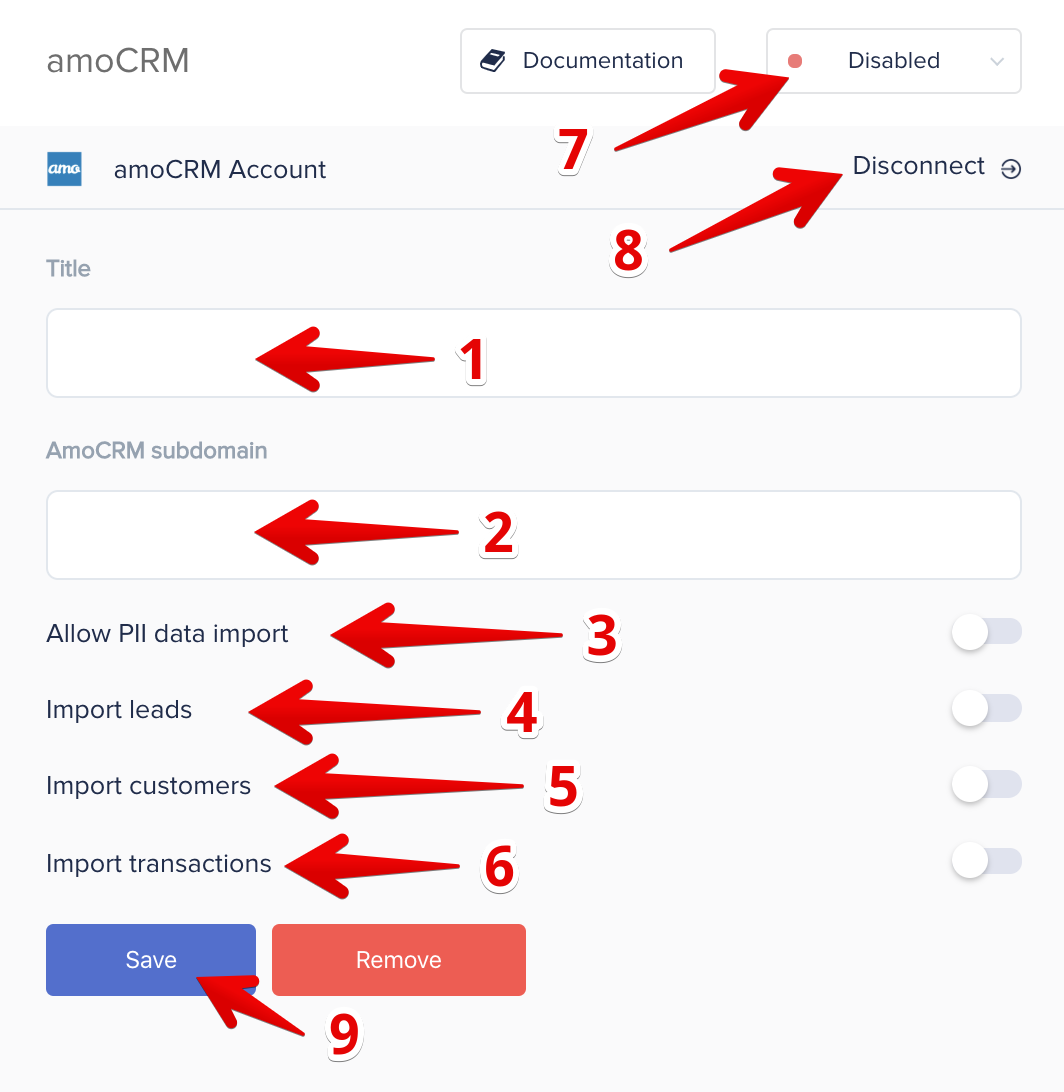
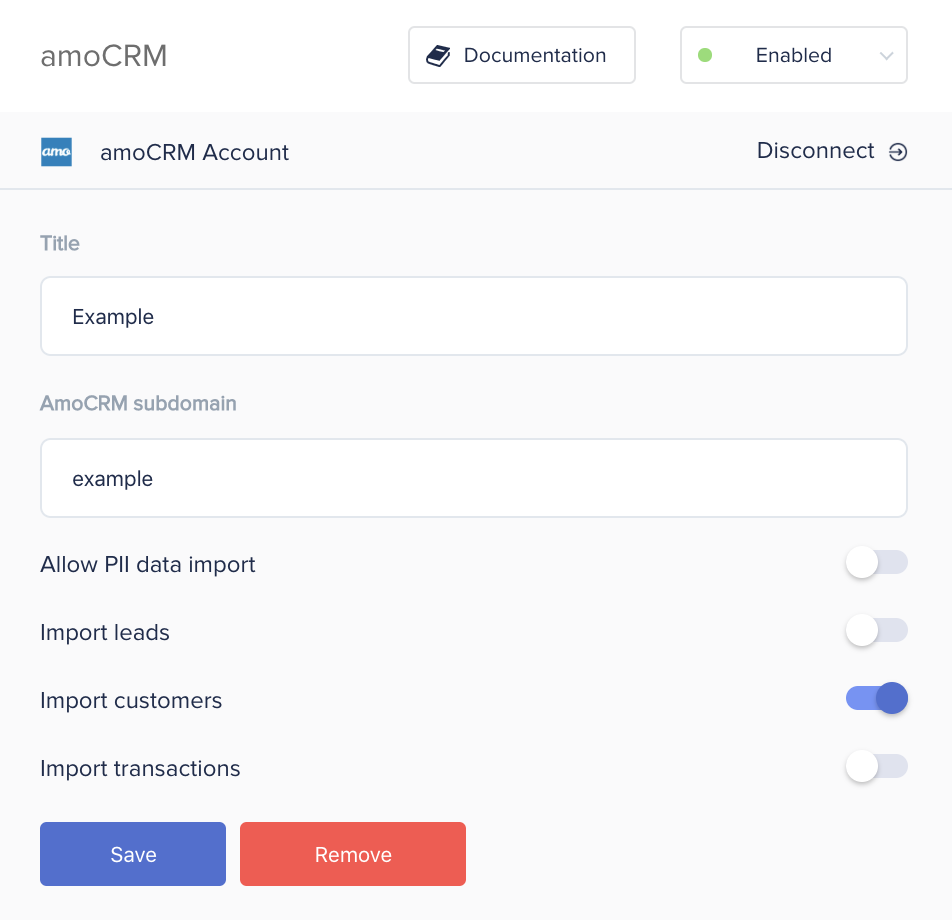
formating

diff --git a/_docs/datasources/amocrm.md b/_docs/datasources/amocrm.md
@@ -19,20 +19,28 @@ The process of connecting data sources is described in detail in the [overview](
 
 After authorization you need to set the data source parameters.
 
-(1) The name of the data source. It is displayed in the interface in the list of sources.
+### Options description
 
-(2) Should be filled with the name of your project as it appears in the amoCRM panel url, i.e. https://projectName.amocrm.ru/
+**Title**
+The name of the data source. It is displayed in the interface in the list of sources.
 
-(3) **Allow PII data import** - enable import of personal data.
+**AmoCRM subdomain**
+Should be filled with the name of your project as it appears in the amoCRM panel url, i.e. https://projectName.amocrm.ru/
 
-(4) **Import leads** - enable import of lead data.
+**Allow PII data import**
+Enable import of personal data.
 
-(5) **Import customers** - enable import of customer data.
+**Import leads**
+Enable import of lead data.
 
-(6) **Import transactions** - enable import of transaction data.
+**Import customers**
+Enable import of customer data.
 
-To save and enable the data source, click "Save" (9).
+**Import transactions**
+Enable import of transaction data.
 
-The "Disconnect" button (8) is used to revoke the authorization data. The settings are saved.
+To save and enable the data source, click **Save**.
 
-You can enable or disable the data source at any time (7).
+The **Disconnect** button is used to revoke the authorization data. The settings are saved.
+
+You can enable or disable the data source at any time by using the switch on the top right.

diff --git a/_docs/datasources/google analytics.md b/_docs/datasources/google analytics.md
@@ -36,6 +36,7 @@ Input the dimensions that you want to import, for example:
 - ga:transactionId
 - ga:dimensionXX (for example for clientId)
 - ga:dimensionXX (for example for sessionId)
+
 A maximum of 7 dimensions can be imported.
 
 **Metrics**
@@ -44,6 +45,7 @@ Input the metrics that you want to import, for example:
 - ga:transaction
 - ga:transactionRevenue
 - ga:goalXXCompletions
+
 A maximum of 10 metrics can be imported.
 
 >**Please note!** Not all dimensions and metrics can be queried together, we recommend using the [Dimensions & Metrics Explorer](https://ga-dev-tools.appspot.com/dimensions-metrics-explorer/) to make sure that the settings used are valid.
